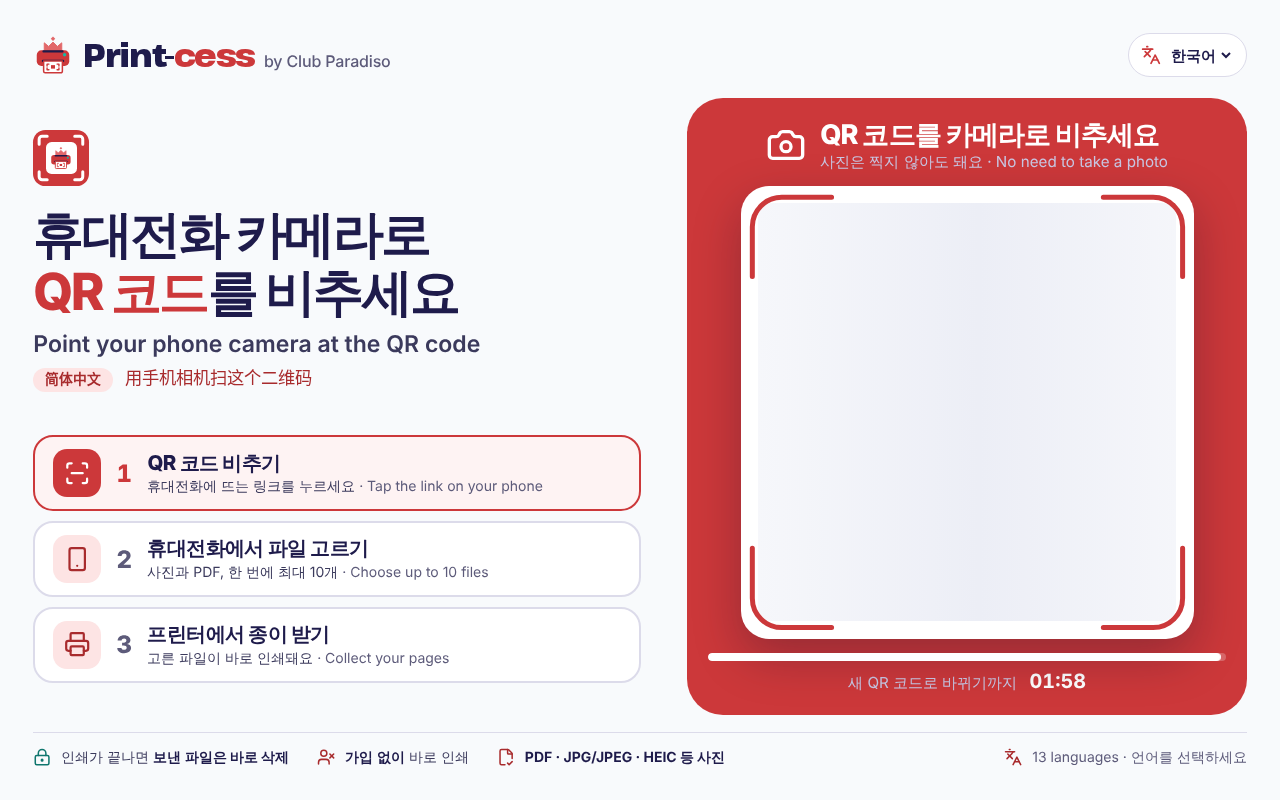
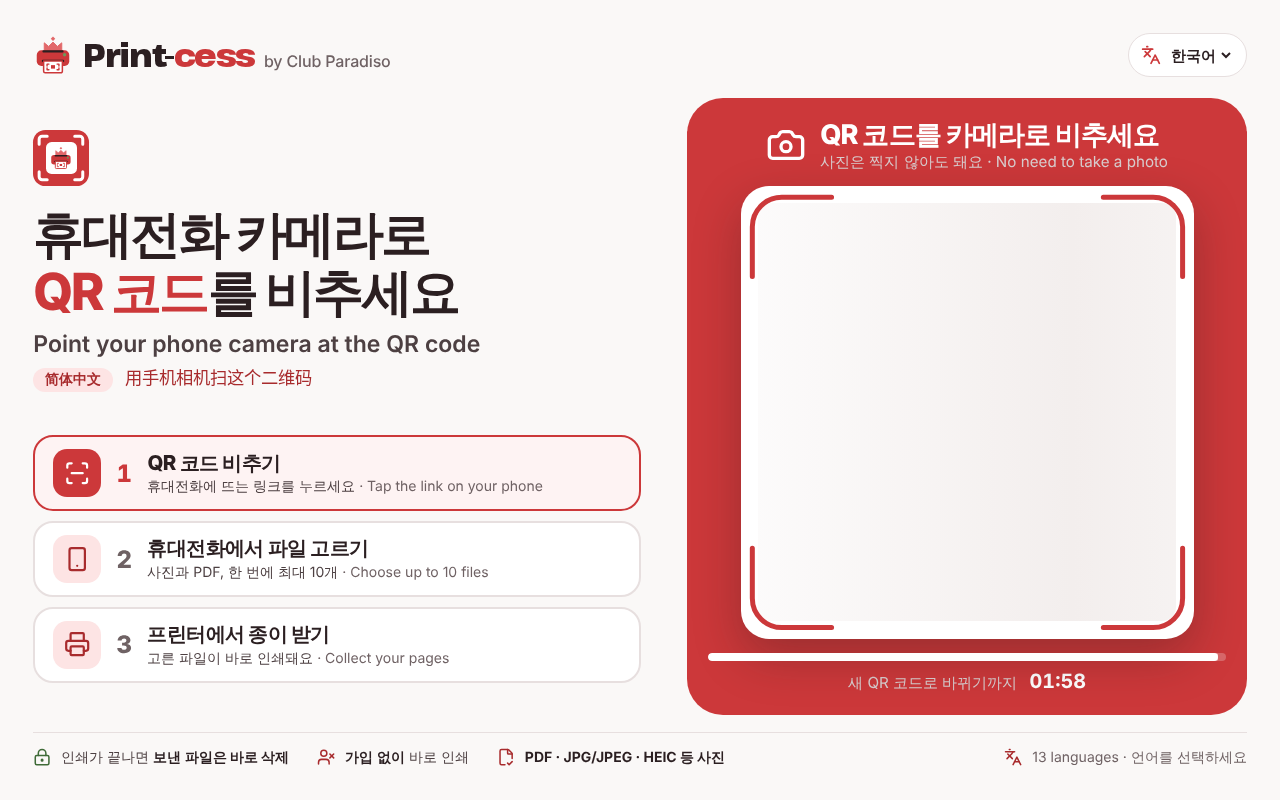
Retake README screenshots in the warm palette; follow the kiosk countdown copy in e2e
Claude-Session: https://claude.ai/code/session_01KJCgXjP5JnC7FQp1Ca7Rzn

diff --git a/apps/web/test/e2e/print-flow.spec.ts b/apps/web/test/e2e/print-flow.spec.ts
@@ -161,7 +161,7 @@ test("the finished screen fits a 1080p kiosk at 150% Windows scaling", async ({
     timeout: 60_000,
   });
 
-  const countdown = page.getByText(/초 후 새 QR 코드$/u);
+  const countdown = page.getByText(/초 뒤 새 QR 코드가 나와요$/u);
   await expect(countdown).toBeVisible();
   const box = await countdown.boundingBox();
   expect(box!.y + box!.height).toBeLessThanOrEqual(720);
